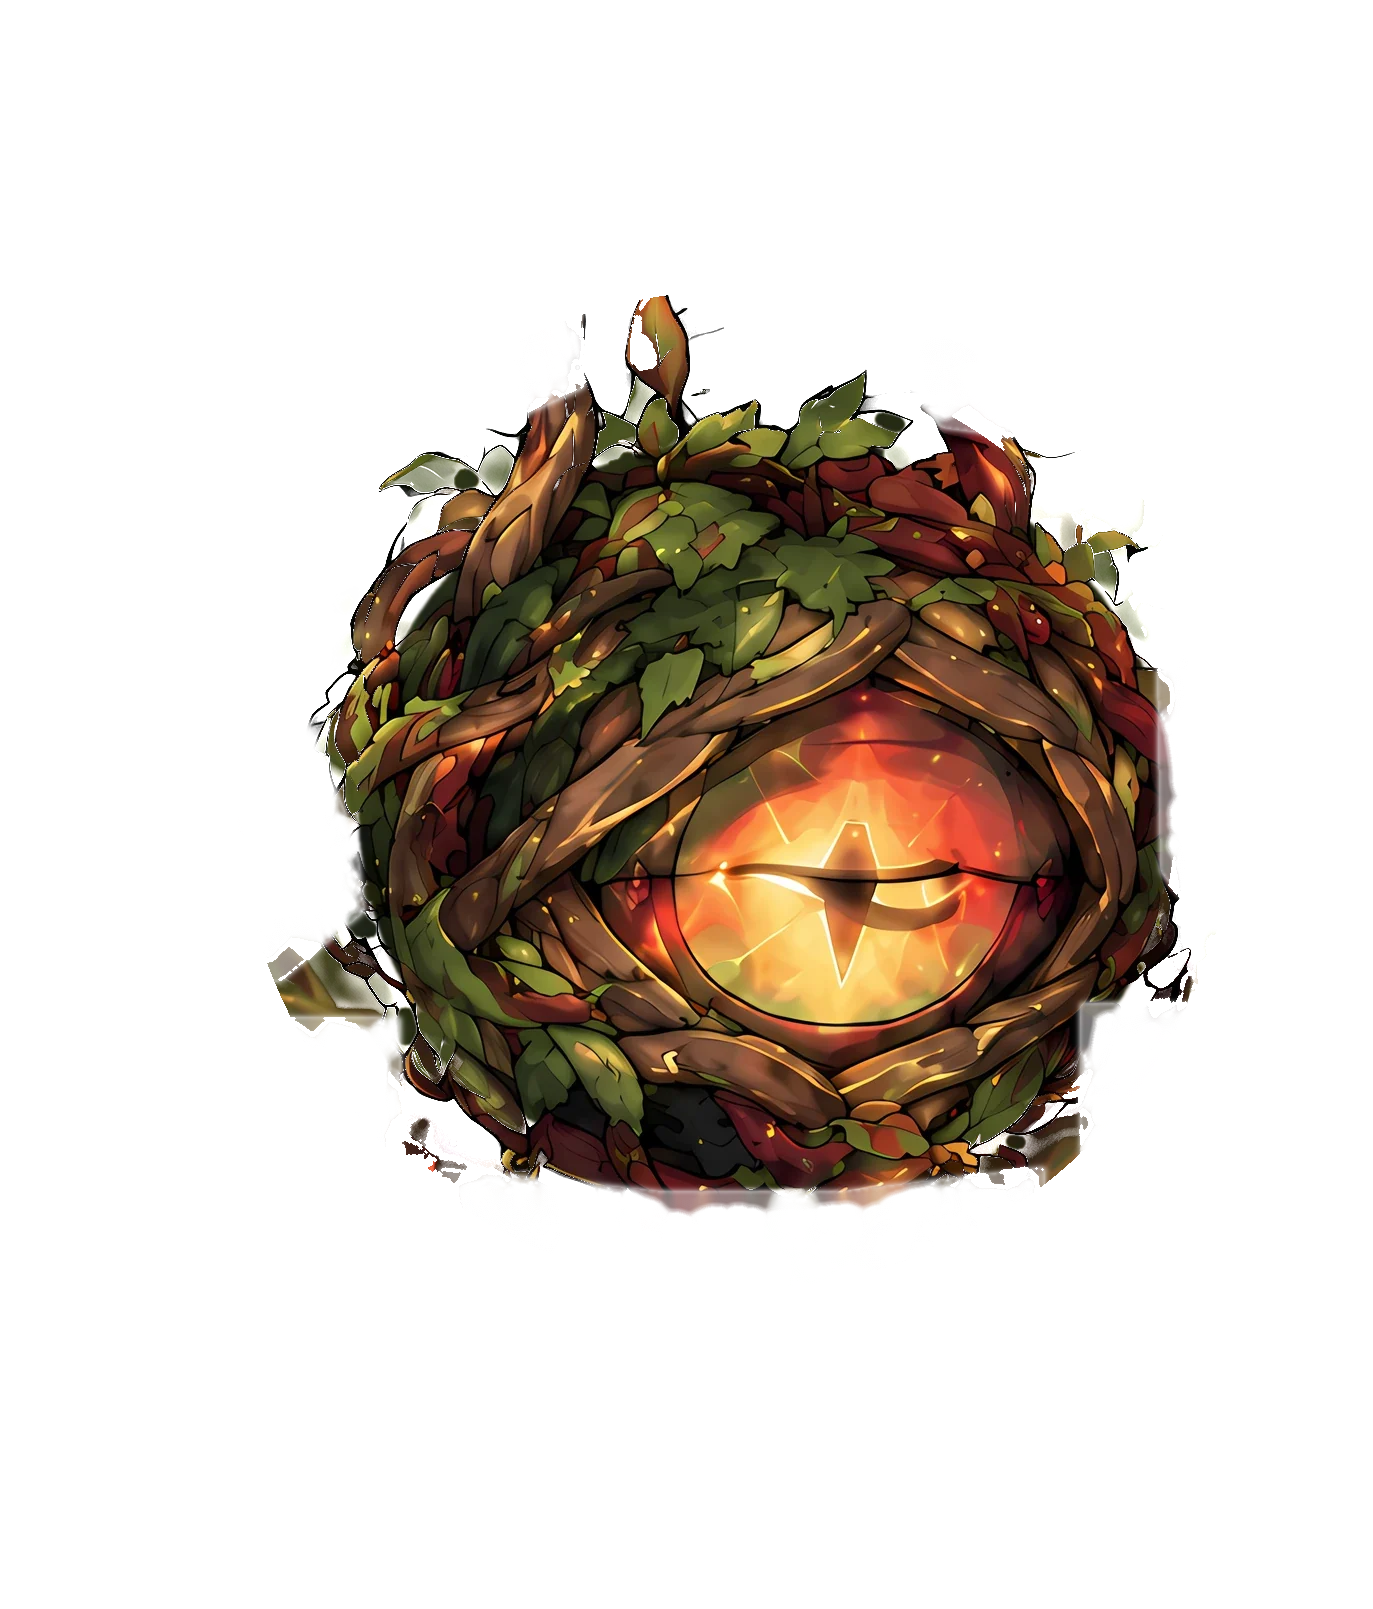
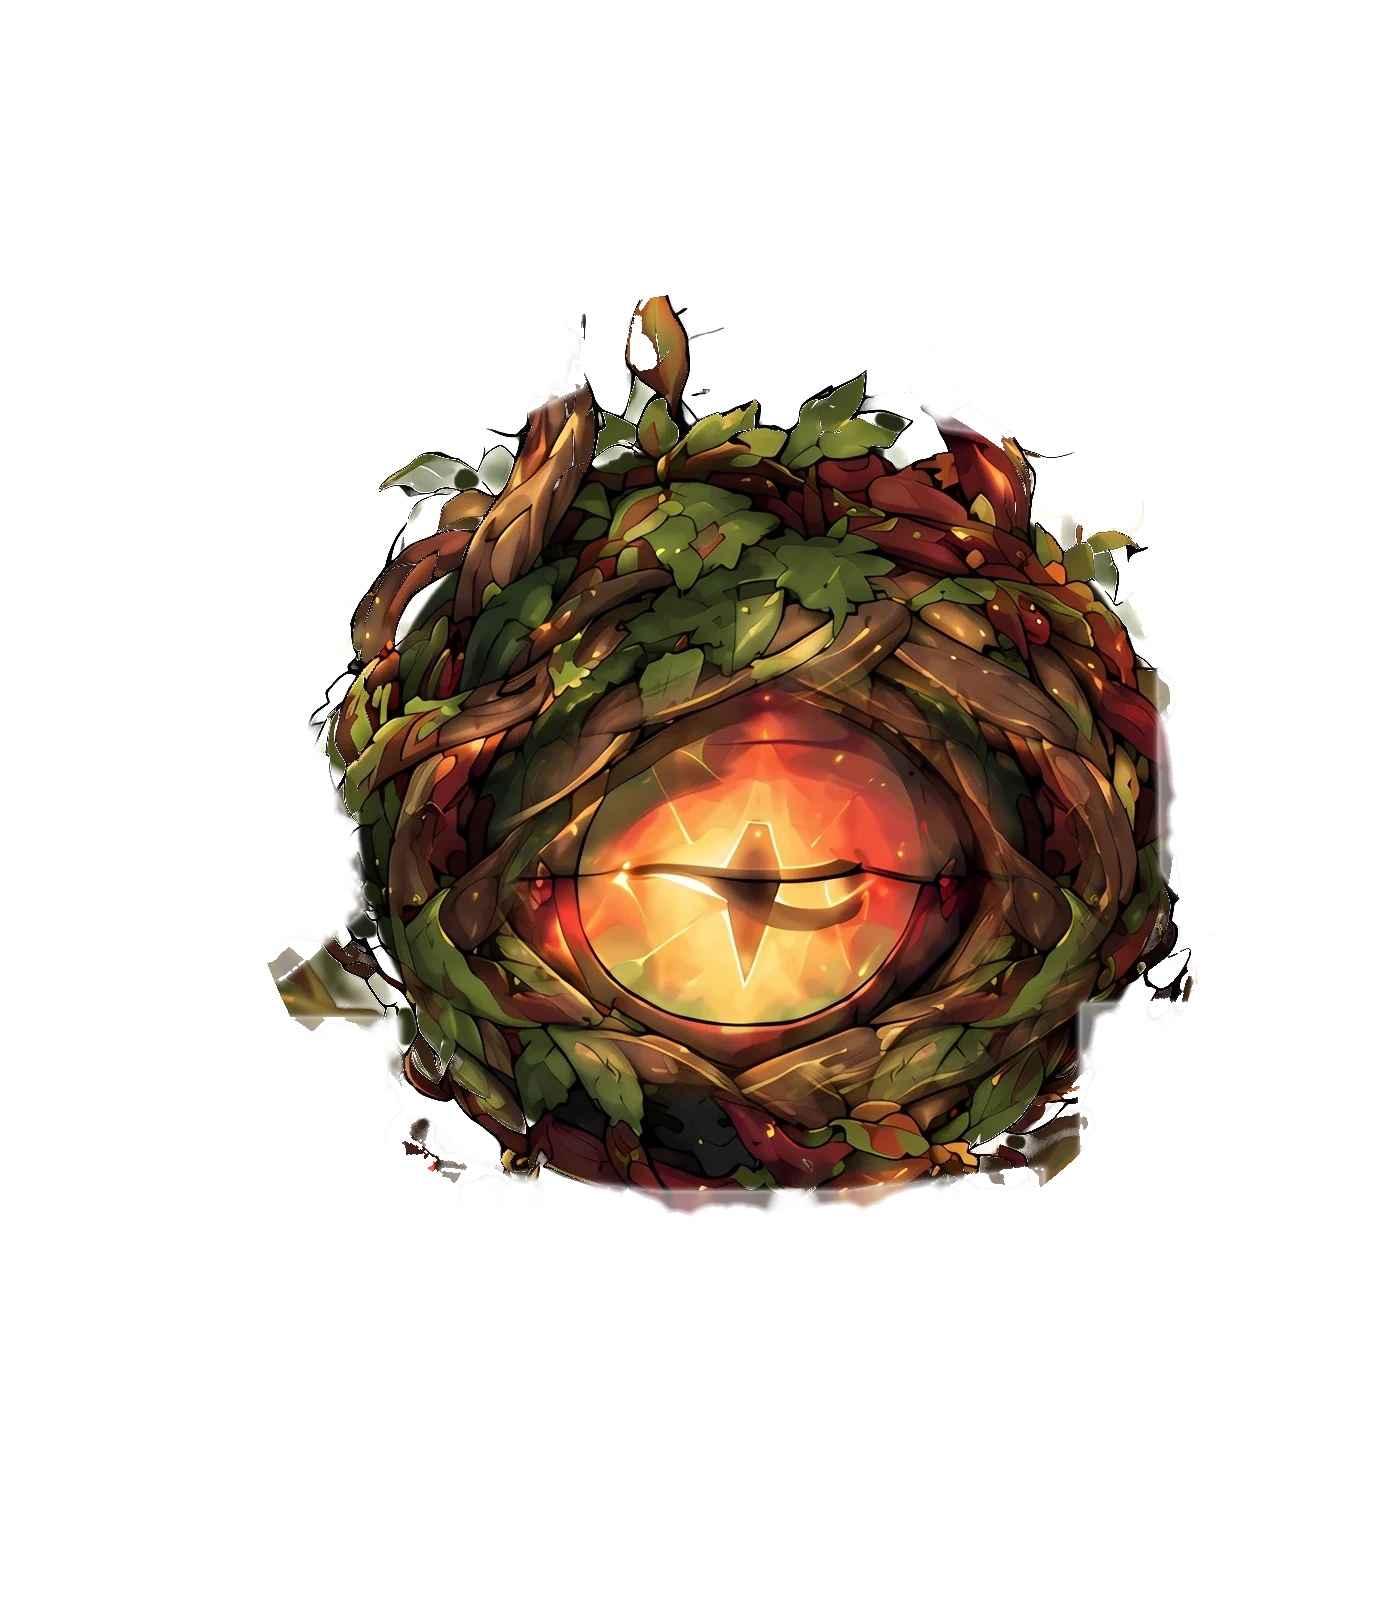
Rosin looks straight ahead; smoke unchanged
Undo the left-facing mirror and move the eye with its ring of vines to the
middle of the orb (97 px left, gap filled with mirrored vines). Expression
eyes and lids follow through layers.js; embers start from the new eye spot.

Changed region(s): [[0.3671, 0.404, 0.7953, 0.6837]]

diff --git a/rosin/rosin.js b/rosin/rosin.js
@@ -68,9 +68,7 @@
     part.appendChild(img); rig.appendChild(part);
   }
   const E = L.eye;
-  rig.style.transformOrigin = `${pct(E.cx, L.W)} ${pct(E.cy, L.H)}`;
-  // Rosin is shown mirrored (#turn in rosin.css) so it faces left: its eye sits left of the middle, at W - cx.
-  rosin.style.transformOrigin = `${pct(L.W - E.cx, L.W)} ${pct(E.cy, L.H)}`;
+  rig.style.transformOrigin = rosin.style.transformOrigin = `${pct(E.cx, L.W)} ${pct(E.cy, L.H)}`;
   place(document.getElementById("eye"), E.x, E.y, E.w, E.h);
   place(document.getElementById("lids"), E.cx - E.rx, E.cy - E.ry, 2 * E.rx, 2 * E.ry);
   const ge = document.getElementById("glow-eye");
@@ -477,7 +475,7 @@
       const glow = shown > 0 ? shown : 0;
       if (parts.length < MAX_EMBERS * (1 + glow * 1.5) && Math.random() < 0.5 + glow) {
         const b = rosin.getBoundingClientRect(), r = b.width * 0.55;
-        parts.push({ x: b.left + b.width * 0.44 + (Math.random() - 0.5) * r, y: b.top + b.height * (0.62 + Math.random() * 0.12),
+        parts.push({ x: b.left + b.width * 0.55 + (Math.random() - 0.5) * r, y: b.top + b.height * (0.62 + Math.random() * 0.12),
                      vx: (Math.random() - 0.5) * 0.4, vy: -0.3 - Math.random() * (0.6 + glow * 1.5),
                      life: 1, s: 1 + Math.random() * 2.5 });
       }

diff --git a/rosin/rosin.css b/rosin/rosin.css
@@ -25,9 +25,6 @@ canvas.smoke { position: fixed; inset: 0; width: 100%; height: 100%; pointer-eve
   position: relative; height: min(94vh, 118vw); aspect-ratio: 1382 / 1698;
   animation: float 6s ease-in-out infinite;
 }
-/* The drawing faces right; #turn mirrors everything in Rosin so it faces left. The smoke is its own canvas outside
-   #rosin, so it stays exactly as drawn. */
-#turn { position: absolute; inset: 0; transform: scaleX(-1); }
 #rig, #rig .part, #rig .part img { position: absolute; }
 #rig { inset: 0; transform: scale(calc(1 + var(--glow) * 0.025));
        filter: drop-shadow(0 0 calc(1px + var(--mood) * 6px + var(--glow) * 16px) rgba(255, 90, 30, calc(0.12 + var(--mood) * 0.26 + var(--glow) * 0.4))); }

diff --git a/rosin/layers.js b/rosin/layers.js
@@ -1,4 +1,5 @@
 // Made by rosin/tools/build_layers.py. Pixel positions on a 1382x1698 canvas.
+// The eye was then moved 97 px left to the middle of the orb (tools/center_eye.py) so Rosin looks straight ahead.
 window.ROSIN_LAYERS = {
  "W": 1382,
  "H": 1698,
@@ -120,11 +121,11 @@ window.ROSIN_LAYERS = {
   "note": "the sheet's own smoke under the orb (tools/cut_smoke.py), drawn by rosin.js as its own moving layer, lower and taller than on the sheet (showY, showH) so Rosin and the smoke stand closer to 9:16"
  },
  "eye": {
-  "x": 600,
+  "x": 503,
   "y": 768,
   "w": 504,
   "h": 412,
-  "cx": 852.0,
+  "cx": 755.0,
   "cy": 974.0,
   "rx": 197.2,
   "ry": 149.4

diff --git a/rosin/index.html b/rosin/index.html
@@ -32,7 +32,6 @@
 
   <div id="stage">
     <div id="rosin">
-     <div id="turn">                <!-- Rosin faces left: the drawing faces right, so this mirrors it (not the smoke) -->
       <div id="glow-back"></div>
       <div id="rig"></div>          <!-- body and moving parts, filled in by rosin.js from layers.js -->
       <div id="eye">
@@ -45,7 +44,6 @@
       </div>
       <div id="lids"><div class="lid top"></div><div class="lid bot"></div></div>
       <div id="glow-eye"></div>
-     </div>
     </div>
   </div>
 
